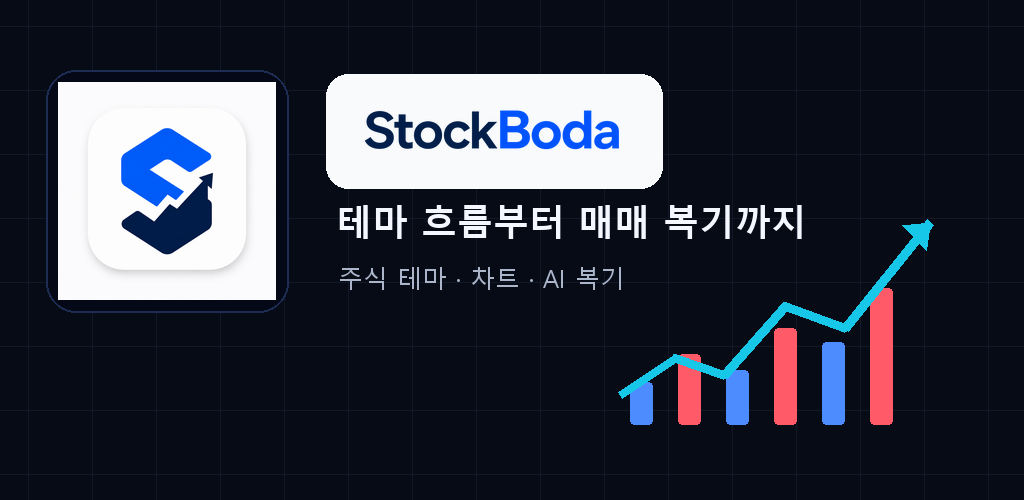
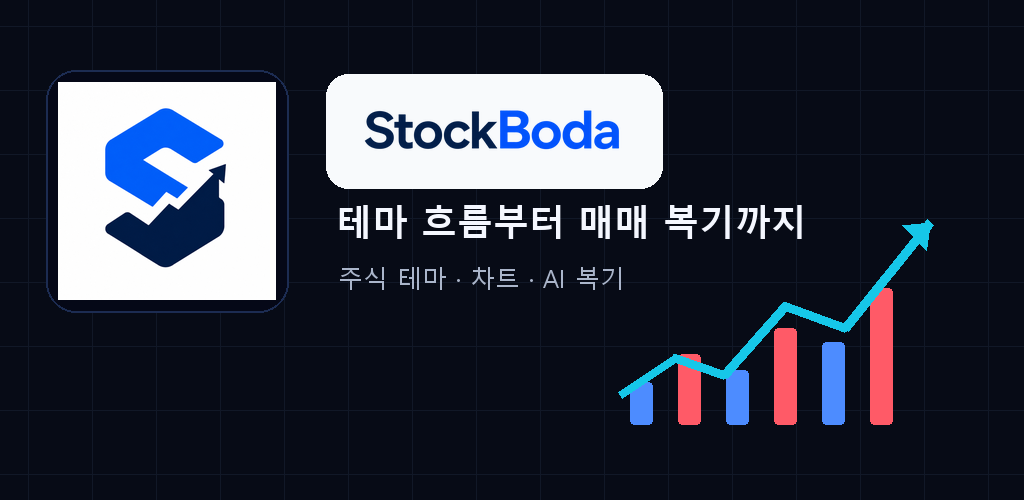
chore: checkpoint StockBoda Play assets

Changed region(s): [[0.0938, 0.21, 0.2188, 0.57], [0.2188, 0.51, 0.25, 0.54]]

diff --git a/frontend/scripts/journal-mobile-ux.test.js b/frontend/scripts/journal-mobile-ux.test.js
@@ -91,11 +91,11 @@ test('mobile header uses a graphical wordmark and masks scrolling content', () =
   assert.match(appSource, /function AppWordmark\(\)/);
   assert.match(appSource, /<img src=\{appIcon\}/);
   assert.match(appSource, /const USE_STOCKBODA_WORDMARK = APP_NAME === 'StockBoda'/);
-  assert.match(appSource, /stockboda-logo-horizontal\.png/);
+  assert.match(appSource, /stockboda-logo-horizontal-dark\.png/);
   assert.match(appSource, /className="mobile-app-brand-logo"/);
   assert.match(appSource, /<h2 className="sidebar-title">\{APP_NAME\}<\/h2>/);
   assert.match(cssSource, /\.mobile-app-brand img \{[\s\S]*?drop-shadow/);
-  assert.match(cssSource, /\.mobile-app-brand img\.mobile-app-brand-logo \{[\s\S]*?background: #f8fafc/);
+  assert.match(cssSource, /\.mobile-app-brand img\.mobile-app-brand-logo \{[\s\S]*?background: transparent/);
   assert.match(cssSource, /\.theme-sidebar-fixed \{[\s\S]*?margin: -12px -12px 0;[\s\S]*?background: #131722/);
   assert.match(cssSource, /\.mobile-app-bar > \* \{[\s\S]*?z-index: 1/);
 });

diff --git a/scripts/generate_play_store_assets.py b/scripts/generate_play_store_assets.py
@@ -11,7 +11,7 @@ ASSET_ROOT = ROOT / "store-assets" / "google-play" / "ko-KR"
 RAW_ROOT = ASSET_ROOT / "raw"
 SCREENSHOT_ROOT = ASSET_ROOT / "screenshots"
 
-STORE_ICON_SOURCE = ROOT / "frontend" / "src" / "assets" / "brand" / "stockboda-app-icon-light.png"
+STORE_ICON_SOURCE = ROOT / "stockboda-play-icon-512.png"
 HEADER_LOGO_SOURCE = ROOT / "frontend" / "src" / "assets" / "brand" / "stockboda-logo-horizontal.png"
 WORDMARK_SOURCE = ROOT / "frontend" / "src" / "assets" / "brand" / "stockboda-wordmark.png"
 
@@ -70,13 +70,6 @@ SCREENSHOTS = (
     ),
 )
 
-RAW_SOURCES_WITH_STALE_BRANDING = (
-    "01-theme-ranking.png",
-    "02-theme-stocks.png",
-    "04-journal-input.png",
-)
-
-
 def font(size: int, *, bold: bool = False) -> ImageFont.FreeTypeFont:
     return ImageFont.truetype(str(FONT_BOLD if bold else FONT_REGULAR), size)
 
@@ -95,19 +88,6 @@ def rounded_mask(size: tuple[int, int], radius: int) -> Image.Image:
     mask = Image.new("L", size, 0)
     ImageDraw.Draw(mask).rounded_rectangle((0, 0, size[0] - 1, size[1] - 1), radius=radius, fill=255)
     return mask
-
-
-def paste_header_logo(image: Image.Image) -> None:
-    ImageDraw.Draw(image).rounded_rectangle((210, 8, 330, 50), radius=8, fill="#F8FAFC")
-    logo = Image.open(HEADER_LOGO_SOURCE).convert("RGBA").resize((102, 34), Image.Resampling.LANCZOS)
-    image.paste(logo, (219, 12), logo)
-
-
-def refresh_raw_source_header(source_path: Path) -> None:
-    source = Image.open(source_path).convert("RGB")
-    ImageDraw.Draw(source).rectangle((200, 0, 425, 58), fill="#101624")
-    paste_header_logo(source)
-    source.save(source_path, "PNG", optimize=True)
 
 
 def paste_feature_wordmark(image: Image.Image) -> None:
@@ -153,54 +133,6 @@ def draw_wrapped_text(
         draw.text((x, y), line, font=text_font, fill=fill)
         y += line_height
     return y
-
-
-def create_demo_ai_review_source() -> Path:
-    image = Image.new("RGB", (540, 960), BG)
-    draw = ImageDraw.Draw(image)
-
-    draw.rectangle((0, 0, 540, 58), fill="#101624")
-    draw.line((29, 20, 18, 29, 29, 38), fill=TEXT, width=3)
-    paste_header_logo(image)
-    draw.ellipse((510, 18, 526, 34), outline=TEXT, width=2)
-    draw.arc((506, 30, 530, 53), 195, 345, fill=TEXT, width=2)
-
-    draw.rounded_rectangle((12, 70, 528, 110), radius=6, fill="#1E2432")
-    draw.text((89, 82), "테마/차트", font=font(15, bold=True), fill="#8E99AE")
-    draw.rounded_rectangle((270, 72, 526, 108), radius=5, fill=BLUE)
-    draw.text((365, 82), "매매복기", font=font(15, bold=True), fill=TEXT)
-
-    draw.rounded_rectangle((12, 124, 528, 938), radius=8, fill=SURFACE, outline=BORDER, width=1)
-    draw.text((30, 146), "AI 복기", font=font(24, bold=True), fill=TEXT)
-    draw.rounded_rectangle((410, 143, 500, 174), radius=5, fill="#18264E", outline="#315FB8", width=1)
-    draw.text((430, 150), "예시 매매", font=font(13, bold=True), fill="#AFC8FF")
-
-    draw.rounded_rectangle((30, 194, 510, 246), radius=6, fill="#2A303E")
-    draw.text((234, 210), "일반 복기", font=font(16, bold=True), fill=TEXT)
-
-    section_x = 34
-    section_width = 468
-    y = 278
-    sections = (
-        ("한 줄 총평", TEXT, "급등 후 눌림목에서 진입해 수익을 확보했지만, 전량 매도 기준은 더 구체화할 필요가 있습니다."),
-        ("잘한 점", "#65D69A", "거래량 증가와 단기 추세 회복을 확인한 뒤 매수해 방향 선택이 좋았습니다."),
-        ("아쉬운 점", "#FFB55B", "매도 당시 상승 추세가 유지되어 일부 물량을 남길 여지가 있었습니다."),
-        ("다음 체크리스트", "#8DB0FF", "1. 매수 전 손절가 정하기  2. 분할 매도 기준 세우기  3. 매도 후 5분 흐름 기록하기"),
-    )
-
-    body_font = font(16)
-    for title, color, body in sections:
-        draw.text((section_x, y), title, font=font(17, bold=True), fill=color)
-        y += 34
-        y = draw_wrapped_text(draw, (section_x, y), body, body_font, "#D8DEEA", section_width, line_gap=9)
-        y += 25
-        if y < 900:
-            draw.line((section_x, y - 10, section_x + section_width, y - 10), fill="#2A3345", width=1)
-
-    output = RAW_ROOT / "05-ai-review-source.png"
-    output.parent.mkdir(parents=True, exist_ok=True)
-    image.save(output, "PNG", optimize=True)
-    return output
 
 
 def create_store_icon() -> Path:
@@ -261,9 +193,6 @@ def clean_source(image: Image.Image) -> Image.Image:
 def create_store_screenshot(spec: ScreenshotSpec, icon_path: Path) -> Path:
     source_path = RAW_ROOT / spec.source
     source = clean_source(Image.open(source_path))
-    source_draw = ImageDraw.Draw(source)
-    source_draw.rectangle((200, 0, 425, 58), fill="#101624")
-    paste_header_logo(source)
     app_screen = resize_cover(source, (900, 1600), top_align=True)
 
     canvas = Image.new("RGB", (1080, 1920), BG)
@@ -302,7 +231,7 @@ def create_contact_sheet(icon_path: Path, feature_path: Path, screenshots: list[
         draw.rectangle((x - 1, y - 1, x + thumb_w, y + thumb_h), outline="#CBD5E1", width=2)
 
     draw.text((52, 958), "앱 이름", font=font(25, bold=True), fill="#475569")
-    draw.text((52, 1002), "스톡보다 - 주식 테마·매매복기", font=font(38, bold=True), fill="#111827")
+    draw.text((52, 1002), "스톡보다", font=font(38, bold=True), fill="#111827")
     draw.text((52, 1068), "스토어 아이콘 512×512 · 대표 그래픽 1024×500 · 휴대전화 스크린샷 1080×1920", font=font(24), fill="#64748B")
 
     output = ASSET_ROOT / "preview-contact-sheet.png"
@@ -311,14 +240,10 @@ def create_contact_sheet(icon_path: Path, feature_path: Path, screenshots: list[
 
 
 def main() -> None:
-    create_demo_ai_review_source()
     missing = [RAW_ROOT / spec.source for spec in SCREENSHOTS if not (RAW_ROOT / spec.source).exists()]
     if missing:
         missing_text = "\n".join(str(path) for path in missing)
         raise SystemExit(f"Missing raw screenshots:\n{missing_text}")
-
-    for source_name in RAW_SOURCES_WITH_STALE_BRANDING:
-        refresh_raw_source_header(RAW_ROOT / source_name)
 
     SCREENSHOT_ROOT.mkdir(parents=True, exist_ok=True)
     icon_path = create_store_icon()

diff --git a/tests/test_brand_image_assets.py b/tests/test_brand_image_assets.py
@@ -9,6 +9,20 @@ BRAND_ROOT = ROOT / "frontend" / "src" / "assets" / "brand"
 STORE_ROOT = ROOT / "store-assets" / "google-play" / "ko-KR"
 
 
+def expected_store_app_screen(source_path: Path) -> Image.Image:
+    source = Image.open(source_path).convert("RGB")
+    crop_right = max(1, source.width - (7 if source.width <= 600 else 10))
+    target_height = min(source.height, round(crop_right * 16 / 9))
+    source = source.crop((0, 0, crop_right, target_height))
+    scale = max(900 / source.width, 1600 / source.height)
+    resized = source.resize(
+        (round(source.width * scale), round(source.height * scale)),
+        Image.Resampling.LANCZOS,
+    )
+    left = max(0, (resized.width - 900) // 2)
+    return resized.crop((left, 0, left + 900, 1600))
+
+
 def official_asset_on_background(asset_name: str, size: tuple[int, int], background: str) -> Image.Image:
     expected = Image.new("RGB", size, background)
     logo = Image.open(BRAND_ROOT / asset_name).convert("RGBA").resize(size, Image.Resampling.LANCZOS)
@@ -29,22 +43,50 @@ class BrandImageAssetsTest(unittest.TestCase):
         expected = official_asset_on_background("stockboda-logo-horizontal.png", (216, 72), "#F8FAFC")
         self.assertIsNone(ImageChops.difference(actual, expected).getbbox())
 
-    def test_generated_app_header_has_an_opaque_light_logo_surface(self):
-        source = Image.open(STORE_ROOT / "raw" / "05-ai-review-source.png").convert("RGB")
-        actual_surface = source.crop((210, 8, 330, 50))
-        self.assertGreater(sum(1 for pixel in actual_surface.get_flattened_data() if min(pixel) >= 240), 2500)
+    def test_play_icon_matches_the_dedicated_console_source(self):
+        actual = Image.open(STORE_ROOT / "icon-512.png").convert("RGBA")
+        expected = Image.open(ROOT / "stockboda-play-icon-512.png").convert("RGBA").resize((512, 512), Image.Resampling.LANCZOS)
+        self.assertIsNone(ImageChops.difference(actual, expected).getbbox())
 
-    def test_raw_screenshot_headers_use_the_official_horizontal_logo_pixels(self):
-        expected = official_asset_on_background("stockboda-logo-horizontal.png", (102, 34), "#F8FAFC")
-        for name in ("01-theme-ranking.png", "02-theme-stocks.png", "04-journal-input.png"):
+    def test_raw_screenshots_are_native_play_resolution(self):
+        for name in (
+            "01-theme-ranking.png",
+            "02-theme-stocks.png",
+            "03-chart-detail.png",
+            "04-journal-input.png",
+            "05-ai-review-source.png",
+        ):
             with self.subTest(name=name):
                 source = Image.open(STORE_ROOT / "raw" / name).convert("RGB")
-                self.assertIsNone(ImageChops.difference(source.crop((219, 12, 321, 46)), expected).getbbox())
+                self.assertGreaterEqual(source.width, 1080)
+                self.assertGreaterEqual(source.height, 1920)
+
+    def test_generated_screenshots_match_their_raw_sources(self):
+        pairs = (
+            ("01-theme-ranking.png", "01-theme-ranking-1080x1920.png"),
+            ("02-theme-stocks.png", "02-theme-stocks-1080x1920.png"),
+            ("03-chart-detail.png", "03-chart-detail-1080x1920.png"),
+            ("04-journal-input.png", "04-journal-input-1080x1920.png"),
+            ("05-ai-review-source.png", "05-ai-review-1080x1920.png"),
+        )
+        for raw_name, output_name in pairs:
+            with self.subTest(output=output_name):
+                expected = expected_store_app_screen(STORE_ROOT / "raw" / raw_name).crop((30, 30, 870, 1570))
+                actual = Image.open(STORE_ROOT / "screenshots" / output_name).convert("RGB").crop((120, 330, 960, 1870))
+                self.assertIsNone(ImageChops.difference(actual, expected).getbbox())
+
+    def test_capture_guide_describes_the_approved_mobile_workflow(self):
+        guide = (STORE_ROOT / "README.md").read_text(encoding="utf-8")
+
+        self.assertIn("실제 Android 기기", guide)
+        self.assertIn("CSS viewport 390×844, DPR 3", guide)
+        self.assertIn("원본 비율을 유지한 crop/resize", guide)
 
     def test_favicon_uses_the_official_light_app_icon_pixels(self):
         actual = Image.open(ROOT / "frontend" / "public" / "favicon.png").convert("RGBA")
         expected = Image.open(BRAND_ROOT / "stockboda-app-icon-light.png").convert("RGBA").resize((48, 48), Image.Resampling.LANCZOS)
         self.assertIsNone(ImageChops.difference(actual, expected).getbbox())
+        self.assertFalse((ROOT / "frontend" / "public" / "favicon.svg").exists())
 
 
 if __name__ == "__main__":
